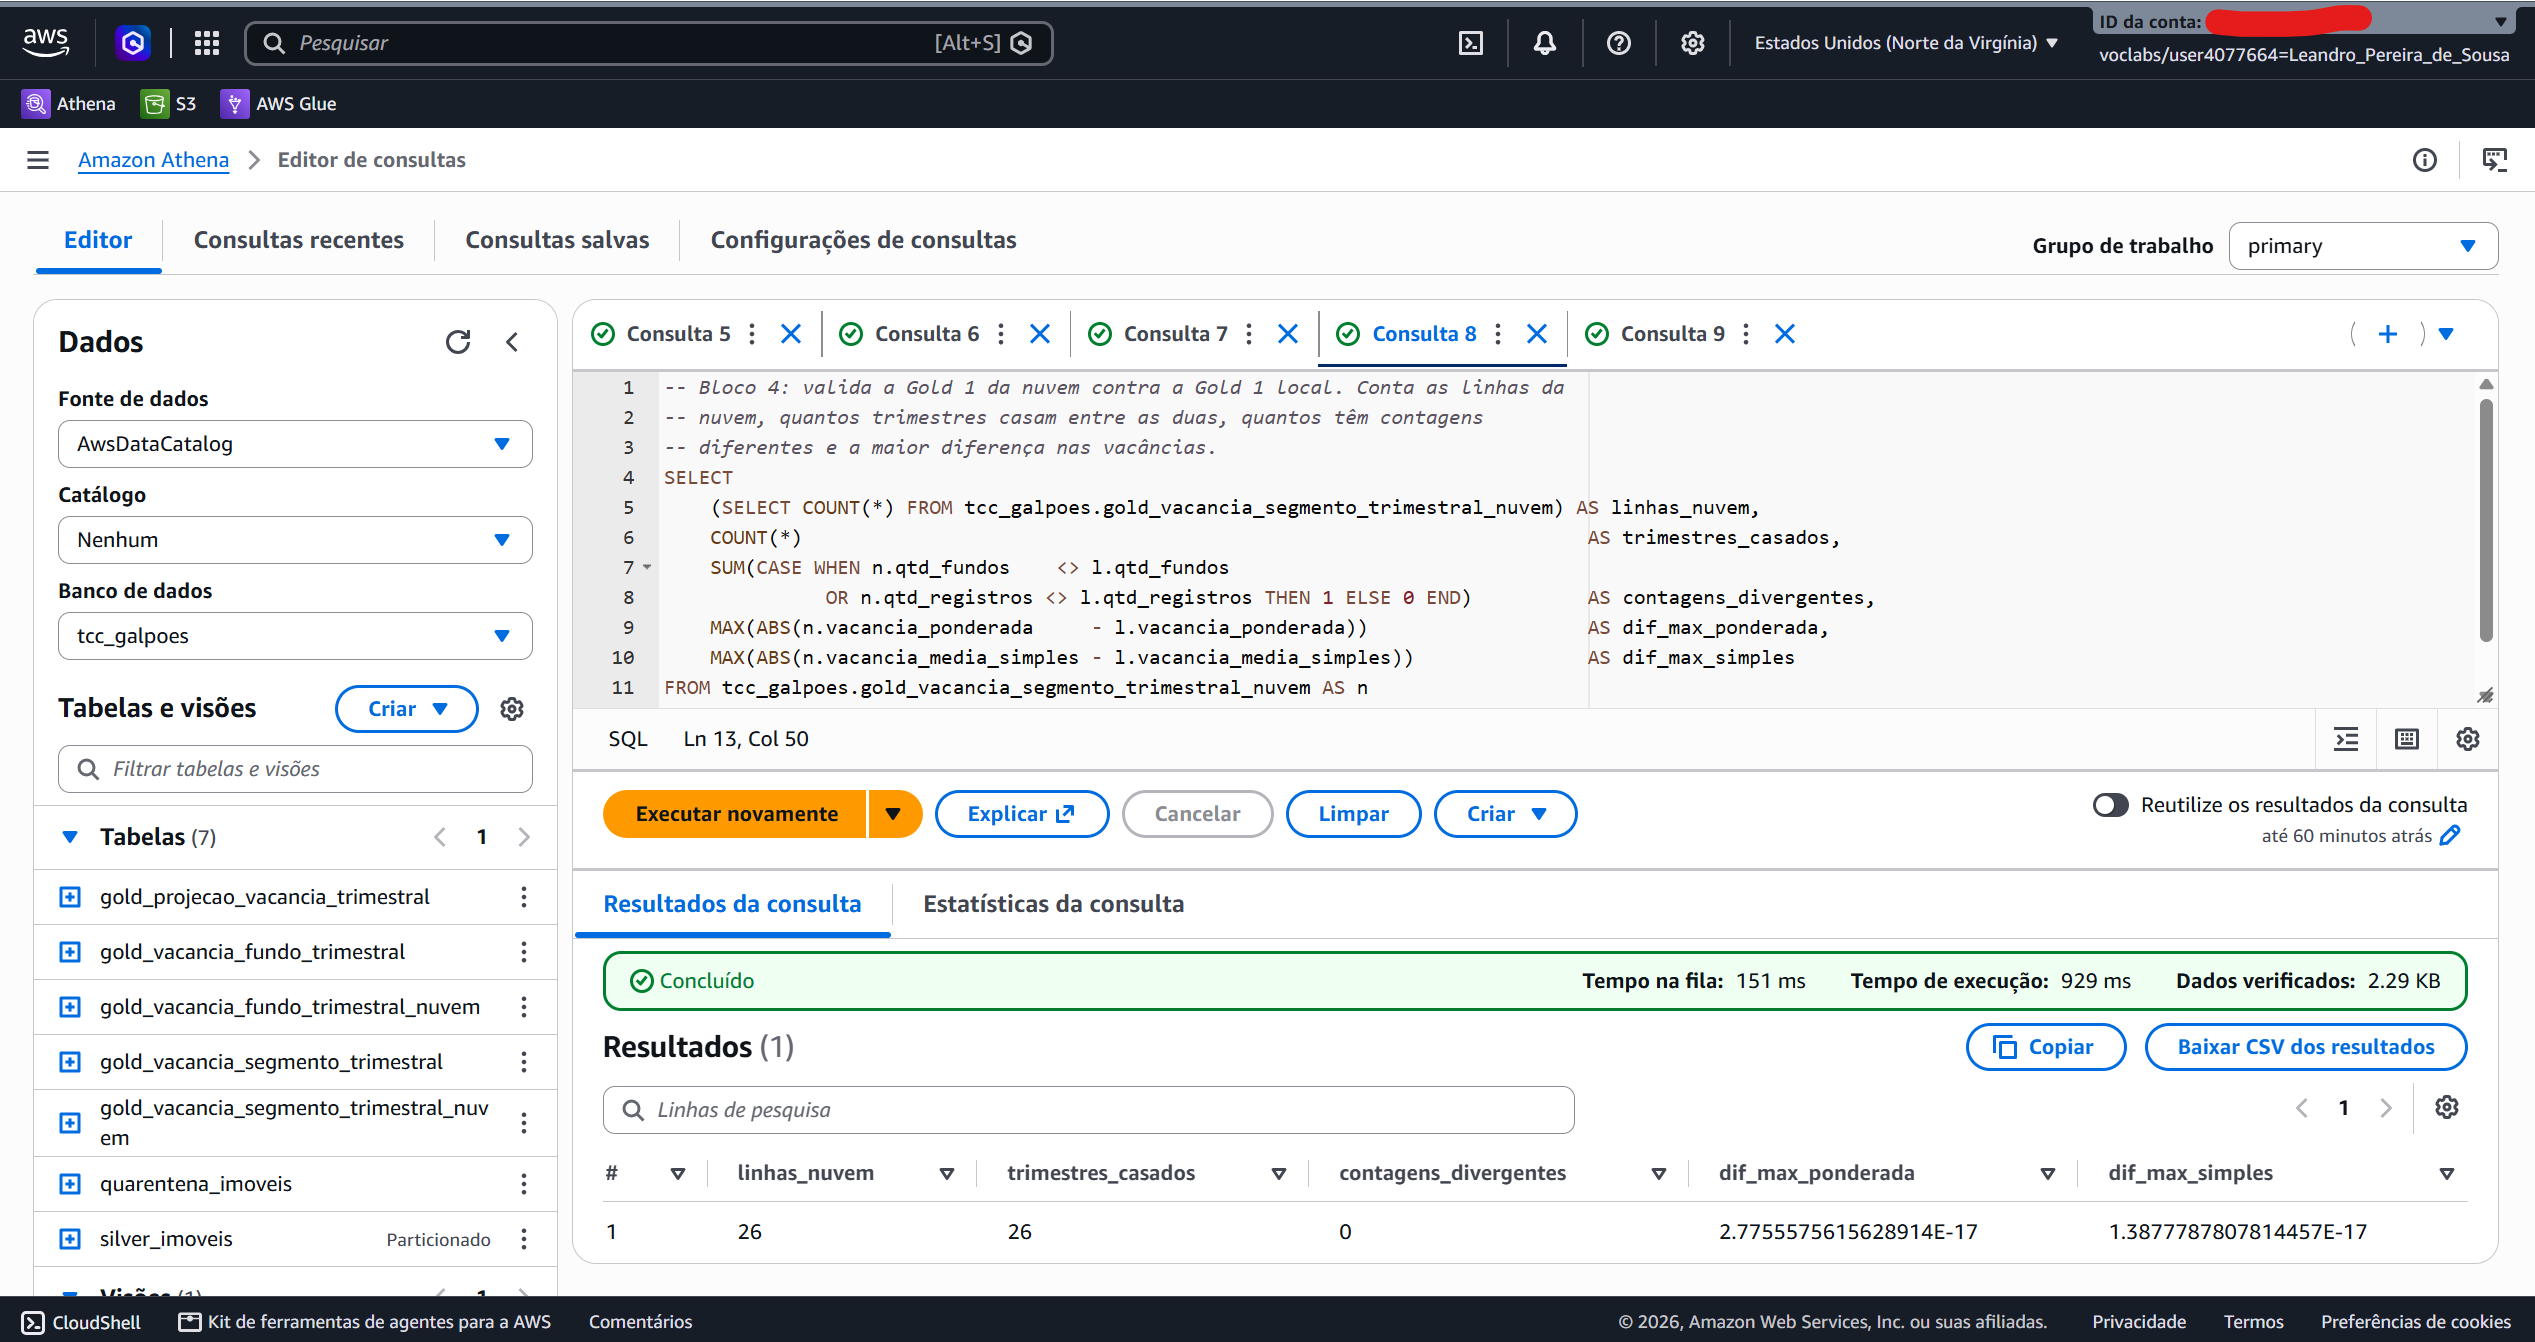
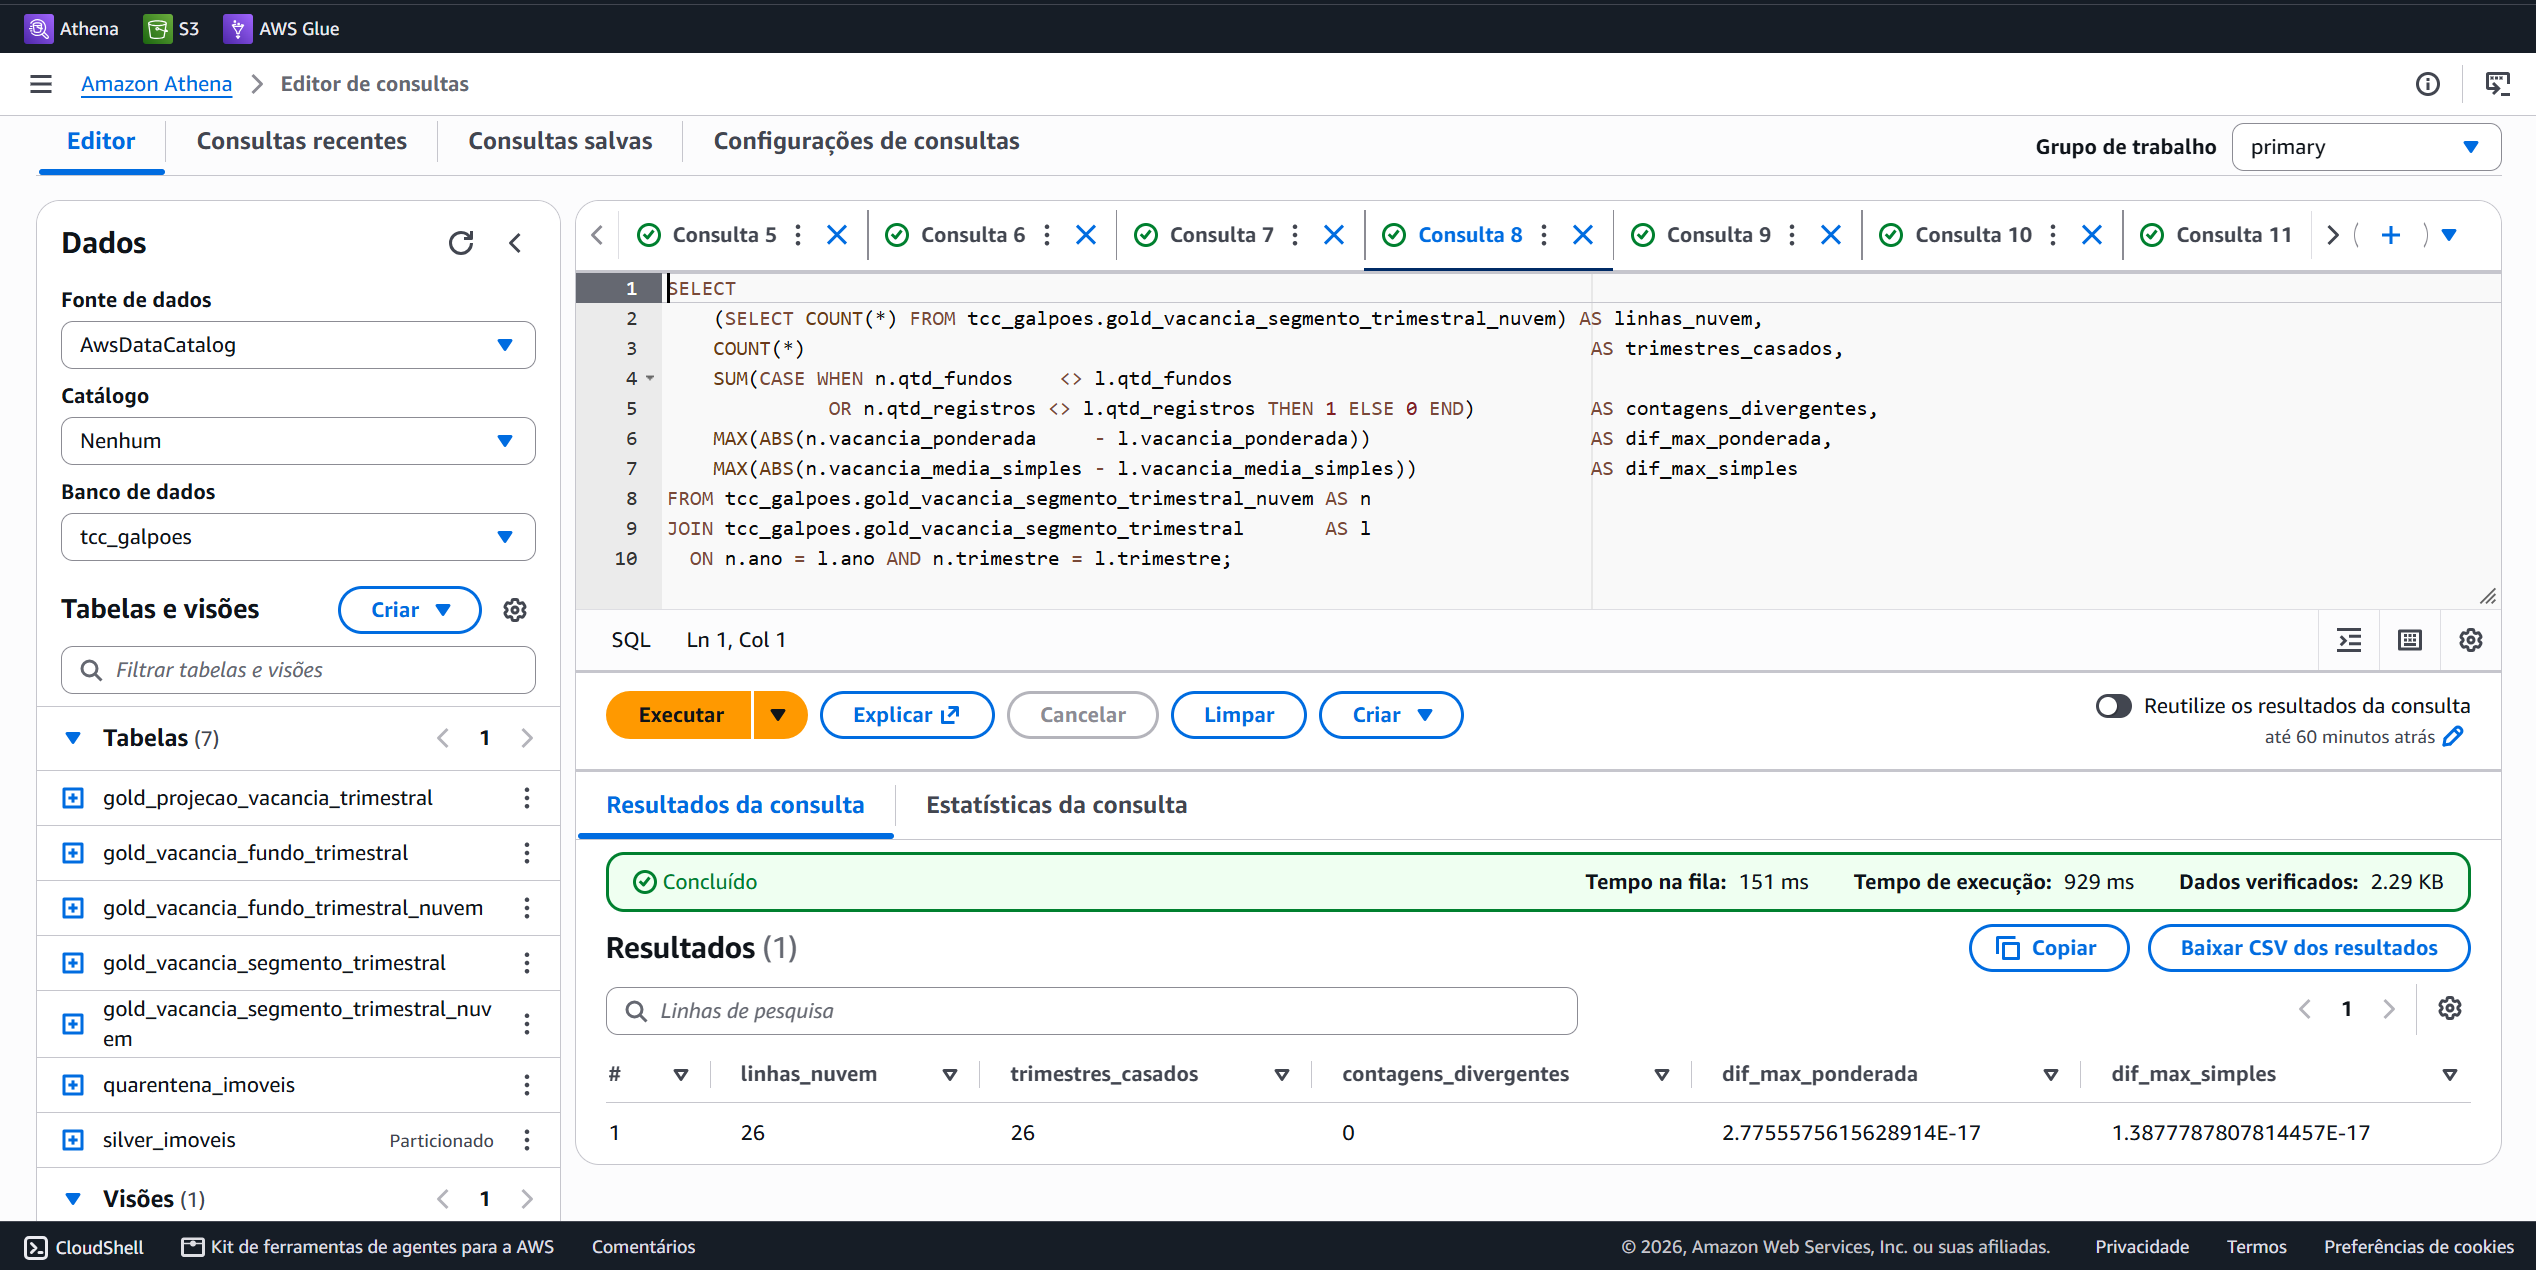
Evidencias da migracao AWS (prints ev01 a ev13) e script 03

diff --git a/docs/decisoes-arquiteturais.md b/docs/decisoes-arquiteturais.md
@@ -474,3 +474,23 @@ substituído por DDL explícita e versionada (DA-31). O QuickSight conectaria
 ao Athena sem driver, mas exige assinatura com cobrança por usuário,
 incompatível com o crédito disponível; o Power BI já era o entregável definido
 e é a ferramenta do ecossistema que o autor domina.
+
+
+## DA-33 — Transformação Silver → Gold executada na nuvem
+
+Decisão: a etapa Silver → Gold foi executada no Athena: a regra de
+alinhamento temporal (DA-24) foi criada como a view tcc_galpoes.imoveis_trimestre,
+e as Gold do segmento e por fundo foram geradas por CTAS (CREATE TABLE AS
+SELECT) em Parquet, em s3://tcc-galpoes-leandro-2026/gold_nuvem/, como as
+tabelas gold_vacancia_segmento_trimestral_nuvem e
+gold_vacancia_fundo_trimestral_nuvem (script src/athena/03_gold_na_nuvem.sql).
+A etapa Bronze → Silver e a projeção permanecem locais.
+
+Motivo: o SQL da Gold já era portável e validado (DA-23, DA-31), o que
+permitiu executar uma etapa de transformação do pipeline na nuvem com baixo
+custo. A Gold gerada na nuvem fica em pasta separada da Gold enviada do
+ambiente local, para permitir a comparação linha a linha. Bronze → Silver
+permanece local porque o Athena não lê arquivos ZIP nem executa Python, e
+um job de ETL do Glue teria custo e complexidade incompatíveis com o
+escopo; a projeção (média móvel e MAE) é feita em Python. A execução
+completa do pipeline na nuvem fica como trabalho futuro.

diff --git a/docs/dicionario-de-dados.md b/docs/dicionario-de-dados.md
@@ -273,3 +273,12 @@ Observação: a faixa de erro é o erro absoluto médio observado no teste
 Observações: no Athena, os nomes de colunas aparecem em minúsculas. A tabela
 quarentena_imoveis declara só as colunas de auditoria (cnpj_fundo_classe,
 nome_imovel, classe, area, percentual_vacancia, ano, motivo_quarentena).
+
+
+| Objeto no Athena                         | Tipo   | Local no S3                                   | Origem                                     |
+|------------------------------------------|--------|-----------------------------------------------|--------------------------------------------|
+| imoveis_trimestre                        | view   | —                                             | silver_imoveis com a regra da DA-24        |
+| gold_vacancia_segmento_trimestral_nuvem  | tabela | gold_nuvem/vacancia_segmento_trimestral/      | CTAS no Athena (03_gold_na_nuvem.sql)      |
+| gold_vacancia_fundo_trimestral_nuvem     | tabela | gold_nuvem/vacancia_fundo_trimestral/         | CTAS no Athena (03_gold_na_nuvem.sql)      |
+
+Colunas iguais às das Gold correspondentes enviadas do ambiente local.

diff --git a/docs/diario-de-bordo.md b/docs/diario-de-bordo.md
@@ -514,3 +514,12 @@ bloco, em abas separadas. Validações: V1 5.607 registros e 7 anos; V2 26 /
 V4 Gold 1 recalculada no Athena com 26 trimestres, 5.606 registros e maior
 diferença de vacância ponderada de 2,78E-17 (ponto flutuante). Resultados
 idênticos ao ambiente local.
+
+
+Gold gerada na nuvem (DA-33): view imoveis_trimestre e CTAS das Gold 1 e 2
+no Athena, gravadas em gold_nuvem/. Validação contra a Gold local — Gold 1:
+26 linhas, 26 casadas, 0 contagens divergentes, diferença máxima de 2,78E-17
+(ponderada) e 1,39E-17 (simples), 929 ms, 2,29 KB lidos. Gold 2: 892 linhas,
+892 casadas, 0 divergentes, diferença máxima de 5,82E-11 m² (área vaga) e
+1,11E-16 (ponderada), 820 ms, 16,15 KB lidos. Diferenças atribuídas à
+aritmética de ponto flutuante.
